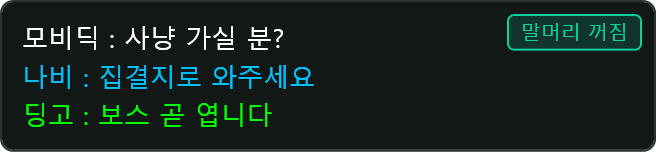
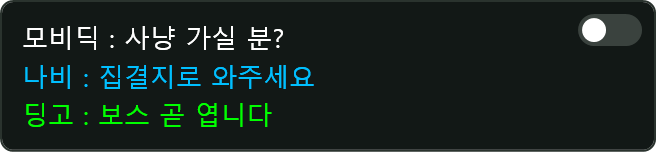
fix: 설정 레이아웃 정리 + 도움말 상태 표시를 실제 토글 그림으로
- 레벨별 색상: 에타 레벨 바로 아래 들여쓴 소분류 행으로 재배치,
  구간 라벨을 색 버튼 왼쪽 한 줄로 정렬해 다른 행의 색 버튼·토글 위치와 맞춤
- 고정된 설정창 본문 폭(566)에 맞게 606px 요소 3곳 축소
  (필드 보스 알림 카드·키워드 입력·아이템 필터 목록) — 오른쪽 짤림 해결
- 도움말 프레임의 '표시 켜짐/꺼짐' 텍스트 배지를 실제 설정과 같은
  토글 스위치 그림으로 교체 — 어떤 토글 상태의 결과인지 바로 대응
- 에타 레벨 예시 [310] → [72] (구간 체계와 일치)

Changed region(s): [[0.7622, 0.0789, 1.0, 0.3421]]

diff --git a/Views/Controls/SettingsView.xaml b/Views/Controls/SettingsView.xaml
@@ -432,18 +432,6 @@
                             <Border Style="{StaticResource SettingsRowStyle}">
                                 <DockPanel>
                                     <StackPanel DockPanel.Dock="Right" Orientation="Horizontal" VerticalAlignment="Center">
-                                        <CheckBox Style="{StaticResource SyncLinkCheckBoxStyle}" IsChecked="{Binding SenderIdColorSync}"/>
-                                        <Button Width="26" Height="14" Margin="0,0,62,0" Background="{Binding SenderIdColor}" IsEnabled="{Binding SenderIdColorEditable}" Command="{Binding ColorPickCommand}" CommandParameter="SenderId" Style="{StaticResource ColorPickerButtonStyle}" ToolTip="동기화를 끄면 지정할 수 있습니다"/>
-                                    </StackPanel>
-                                    <StackPanel Orientation="Horizontal" VerticalAlignment="Center">
-                                        <TextBlock Text="아이디" Style="{StaticResource SettingsRowLabelStyle}" ToolTip="채팅 줄의 보낸 사람 아이디 색상"/>
-                                        <Button Style="{StaticResource HelpButtonStyle}" Tag="chat.id.sender" Click="Help_Click"/>
-                                    </StackPanel>
-                                </DockPanel>
-                            </Border>
-                            <Border Style="{StaticResource SettingsRowStyle}">
-                                <DockPanel>
-                                    <StackPanel DockPanel.Dock="Right" Orientation="Horizontal" VerticalAlignment="Center">
                                         <CheckBox Style="{StaticResource SyncLinkCheckBoxStyle}" IsChecked="{Binding EtaLevelColorSync}"/>
                                         <Button Width="26" Height="14" Margin="0,0,10,0" Background="{Binding EtaLevelColor}" IsEnabled="{Binding EtaLevelColorEditable}" Command="{Binding ColorPickCommand}" CommandParameter="EtaLevel" Style="{StaticResource ColorPickerButtonStyle}" ToolTip="동기화를 끄면 지정할 수 있습니다"/>
                                         <CheckBox IsChecked="{Binding ShowEtaLevel}" Style="{StaticResource ToggleSwitchCheckBoxStyle}"/>
@@ -454,32 +442,35 @@
                                     </StackPanel>
                                 </DockPanel>
                             </Border>
+                            <Border Style="{StaticResource SettingsRowStyle}">
+                                <DockPanel>
+                                    <StackPanel DockPanel.Dock="Right" Orientation="Horizontal" VerticalAlignment="Center">
+                                        <CheckBox Style="{StaticResource SyncLinkCheckBoxStyle}" IsChecked="{Binding SenderIdColorSync}"/>
+                                        <Button Width="26" Height="14" Margin="0,0,62,0" Background="{Binding SenderIdColor}" IsEnabled="{Binding SenderIdColorEditable}" Command="{Binding ColorPickCommand}" CommandParameter="SenderId" Style="{StaticResource ColorPickerButtonStyle}" ToolTip="동기화를 끄면 지정할 수 있습니다"/>
+                                    </StackPanel>
+                                    <StackPanel Orientation="Horizontal" VerticalAlignment="Center">
+                                        <TextBlock Text="아이디" Style="{StaticResource SettingsRowLabelStyle}" ToolTip="채팅 줄의 보낸 사람 아이디 색상"/>
+                                        <Button Style="{StaticResource HelpButtonStyle}" Tag="chat.id.sender" Click="Help_Click"/>
+                                    </StackPanel>
+                                </DockPanel>
+                            </Border>
+                            <!-- 에타 레벨의 소분류: 들여쓴 라벨 + 구간 색 버튼(라벨은 버튼 왼쪽, 한 줄 정렬) -->
                             <Border Style="{StaticResource SettingsRowWideStyle}">
                                 <DockPanel>
                                     <StackPanel DockPanel.Dock="Right" Orientation="Horizontal" VerticalAlignment="Center">
-                                        <StackPanel Margin="6,0,0,0" VerticalAlignment="Center">
-                                            <TextBlock Text="1~20" FontSize="9" Foreground="{DynamicResource OverlaySubtleTextBrush}" HorizontalAlignment="Center" Margin="0,0,0,2"/>
-                                            <Button Width="26" Height="14" Background="{Binding EtaLevelRange1Color}" IsEnabled="{Binding EtaLevelRangeColors}" Command="{Binding ColorPickCommand}" CommandParameter="EtaLevelRange1" Style="{StaticResource ColorPickerButtonStyle}"/>
-                                        </StackPanel>
-                                        <StackPanel Margin="6,0,0,0" VerticalAlignment="Center">
-                                            <TextBlock Text="21~40" FontSize="9" Foreground="{DynamicResource OverlaySubtleTextBrush}" HorizontalAlignment="Center" Margin="0,0,0,2"/>
-                                            <Button Width="26" Height="14" Background="{Binding EtaLevelRange2Color}" IsEnabled="{Binding EtaLevelRangeColors}" Command="{Binding ColorPickCommand}" CommandParameter="EtaLevelRange2" Style="{StaticResource ColorPickerButtonStyle}"/>
-                                        </StackPanel>
-                                        <StackPanel Margin="6,0,0,0" VerticalAlignment="Center">
-                                            <TextBlock Text="41~60" FontSize="9" Foreground="{DynamicResource OverlaySubtleTextBrush}" HorizontalAlignment="Center" Margin="0,0,0,2"/>
-                                            <Button Width="26" Height="14" Background="{Binding EtaLevelRange3Color}" IsEnabled="{Binding EtaLevelRangeColors}" Command="{Binding ColorPickCommand}" CommandParameter="EtaLevelRange3" Style="{StaticResource ColorPickerButtonStyle}"/>
-                                        </StackPanel>
-                                        <StackPanel Margin="6,0,0,0" VerticalAlignment="Center">
-                                            <TextBlock Text="61~80" FontSize="9" Foreground="{DynamicResource OverlaySubtleTextBrush}" HorizontalAlignment="Center" Margin="0,0,0,2"/>
-                                            <Button Width="26" Height="14" Background="{Binding EtaLevelRange4Color}" IsEnabled="{Binding EtaLevelRangeColors}" Command="{Binding ColorPickCommand}" CommandParameter="EtaLevelRange4" Style="{StaticResource ColorPickerButtonStyle}"/>
-                                        </StackPanel>
-                                        <StackPanel Margin="6,0,0,0" VerticalAlignment="Center">
-                                            <TextBlock Text="81~" FontSize="9" Foreground="{DynamicResource OverlaySubtleTextBrush}" HorizontalAlignment="Center" Margin="0,0,0,2"/>
-                                            <Button Width="26" Height="14" Background="{Binding EtaLevelRange5Color}" IsEnabled="{Binding EtaLevelRangeColors}" Command="{Binding ColorPickCommand}" CommandParameter="EtaLevelRange5" Style="{StaticResource ColorPickerButtonStyle}"/>
-                                        </StackPanel>
-                                        <CheckBox IsChecked="{Binding EtaLevelRangeColors}" Style="{StaticResource ToggleSwitchCheckBoxStyle}" Margin="12,0,0,0"/>
+                                        <TextBlock Text="1~20" FontSize="10" Foreground="{DynamicResource OverlaySubtleTextBrush}" VerticalAlignment="Center" Margin="0,0,4,0"/>
+                                        <Button Width="26" Height="14" Margin="0,0,8,0" Background="{Binding EtaLevelRange1Color}" IsEnabled="{Binding EtaLevelRangeColors}" Command="{Binding ColorPickCommand}" CommandParameter="EtaLevelRange1" Style="{StaticResource ColorPickerButtonStyle}"/>
+                                        <TextBlock Text="21~40" FontSize="10" Foreground="{DynamicResource OverlaySubtleTextBrush}" VerticalAlignment="Center" Margin="0,0,4,0"/>
+                                        <Button Width="26" Height="14" Margin="0,0,8,0" Background="{Binding EtaLevelRange2Color}" IsEnabled="{Binding EtaLevelRangeColors}" Command="{Binding ColorPickCommand}" CommandParameter="EtaLevelRange2" Style="{StaticResource ColorPickerButtonStyle}"/>
+                                        <TextBlock Text="41~60" FontSize="10" Foreground="{DynamicResource OverlaySubtleTextBrush}" VerticalAlignment="Center" Margin="0,0,4,0"/>
+                                        <Button Width="26" Height="14" Margin="0,0,8,0" Background="{Binding EtaLevelRange3Color}" IsEnabled="{Binding EtaLevelRangeColors}" Command="{Binding ColorPickCommand}" CommandParameter="EtaLevelRange3" Style="{StaticResource ColorPickerButtonStyle}"/>
+                                        <TextBlock Text="61~80" FontSize="10" Foreground="{DynamicResource OverlaySubtleTextBrush}" VerticalAlignment="Center" Margin="0,0,4,0"/>
+                                        <Button Width="26" Height="14" Margin="0,0,8,0" Background="{Binding EtaLevelRange4Color}" IsEnabled="{Binding EtaLevelRangeColors}" Command="{Binding ColorPickCommand}" CommandParameter="EtaLevelRange4" Style="{StaticResource ColorPickerButtonStyle}"/>
+                                        <TextBlock Text="81~" FontSize="10" Foreground="{DynamicResource OverlaySubtleTextBrush}" VerticalAlignment="Center" Margin="0,0,4,0"/>
+                                        <Button Width="26" Height="14" Margin="0,0,10,0" Background="{Binding EtaLevelRange5Color}" IsEnabled="{Binding EtaLevelRangeColors}" Command="{Binding ColorPickCommand}" CommandParameter="EtaLevelRange5" Style="{StaticResource ColorPickerButtonStyle}"/>
+                                        <CheckBox IsChecked="{Binding EtaLevelRangeColors}" Style="{StaticResource ToggleSwitchCheckBoxStyle}"/>
                                     </StackPanel>
-                                    <StackPanel Orientation="Horizontal" VerticalAlignment="Center">
+                                    <StackPanel Orientation="Horizontal" VerticalAlignment="Center" Margin="14,0,0,0">
                                         <TextBlock Text="레벨별 색상" Style="{StaticResource SettingsRowLabelStyle}" ToolTip="에타 레벨 구간에 따라 [레벨] 색을 다르게 표시"/>
                                         <Button Style="{StaticResource HelpButtonStyle}" Tag="chat.id.eta_range" Click="Help_Click"/>
                                     </StackPanel>
@@ -928,7 +919,7 @@
                                  Style="{StaticResource InputTextBoxStyle}"
                                  AcceptsReturn="True"
                                  TextWrapping="Wrap"
-                                 Width="606"
+                                 Width="566"
                                  HorizontalAlignment="Left"
                                  Height="80"/>
                         <TextBlock Text="@단어1 @단어2 형식 · 입력 즉시 적용됩니다" Style="{StaticResource SettingsRowHintStyle}" Margin="0,4,0,0"/>
@@ -1198,7 +1189,7 @@
                             <Button Content="사용자 정의" Command="{Binding SelectCustomDropFilterCommand}" Width="92" Style="{StaticResource DropFilterButtonStyle}"/>
                         </StackPanel>
 
-                        <Grid Width="606" HorizontalAlignment="Left">
+                        <Grid Width="566" HorizontalAlignment="Left">
                             <Grid.Style>
                                 <Style TargetType="Grid">
                                     <Setter Property="Visibility" Value="Collapsed"/>
@@ -1302,7 +1293,7 @@
                                 <RadioButton Content="필드 보스 알림" IsChecked="True" GroupName="BossTabs" IsHitTestVisible="False" Style="{StaticResource SettingsTabStyle}"/>
                             </StackPanel>
                         </Border>
-                        <ItemsControl ItemsSource="{Binding BossAlarmCards}" Width="606" HorizontalAlignment="Left">
+                        <ItemsControl ItemsSource="{Binding BossAlarmCards}" Width="566" HorizontalAlignment="Left">
                             <ItemsControl.ItemsPanel>
                                 <ItemsPanelTemplate>
                                     <UniformGrid Columns="3"/>

diff --git a/Services/Diagnostics/HelpShotRenderer.cs b/Services/Diagnostics/HelpShotRenderer.cs
@@ -54,17 +54,17 @@ namespace TWChatOverlay.Services
             Save(outDir, "chat_id_sender_sync_off.png", SyncGuideMock(syncOn: false));
 
             // ── 에타 레벨 ──
-            Save(outDir, "chat_id_eta_level_off.png", Panel("표시 꺼짐",
+            Save(outDir, "chat_id_eta_level_off.png", PanelToggle(false,
                 Line(NormalCol, ("모비딕", NormalCol), (" : 사냥 가실 분?", NormalCol))));
-            Save(outDir, "chat_id_eta_level_on.png", Panel("표시 켜짐",
-                Line(NormalCol, ("모비딕", NormalCol), ("[310]", GoldCol), (" : 사냥 가실 분?", NormalCol))));
+            Save(outDir, "chat_id_eta_level_on.png", PanelToggle(true,
+                Line(NormalCol, ("모비딕", NormalCol), ("[72]", GoldCol), (" : 사냥 가실 분?", NormalCol))));
 
             // ── 에타 레벨별 색상 ──
-            Save(outDir, "chat_id_eta_range_off.png", Panel("레벨별 색상 꺼짐 — 한 가지 색",
+            Save(outDir, "chat_id_eta_range_off.png", PanelToggle(false,
                 Line(NormalCol, ("나비", NormalCol), ("[15]", GoldCol), (" : 반가워요", NormalCol)),
                 Line(NormalCol, ("딩고", NormalCol), ("[55]", GoldCol), (" : 사냥 가실 분?", NormalCol)),
                 Line(NormalCol, ("모비딕", NormalCol), ("[92]", GoldCol), (" : 보스 곧 엽니다", NormalCol))));
-            Save(outDir, "chat_id_eta_range_on.png", Panel("레벨별 색상 켜짐 — 구간별 색",
+            Save(outDir, "chat_id_eta_range_on.png", PanelToggle(true,
                 Line(NormalCol, ("나비", NormalCol), ("[15]", Range1Col), (" : 반가워요", NormalCol)),
                 Line(NormalCol, ("호밀", NormalCol), ("[33]", Range2Col), (" : 물약 팝니다", NormalCol)),
                 Line(NormalCol, ("딩고", NormalCol), ("[55]", Range3Col), (" : 사냥 가실 분?", NormalCol)),
@@ -72,29 +72,30 @@ namespace TWChatOverlay.Services
                 Line(NormalCol, ("모비딕", NormalCol), ("[92]", Range5Col), (" : 보스 곧 엽니다", NormalCol))));
 
             // ── 캐릭터 ──
-            Save(outDir, "chat_id_character_off.png", Panel("표시 꺼짐",
-                Line(NormalCol, ("모비딕", NormalCol), ("[310]", GoldCol), (" : 사냥 가실 분?", NormalCol))));
-            Save(outDir, "chat_id_character_on.png", Panel("표시 켜짐",
-                Line(NormalCol, ("모비딕", NormalCol), ("[310]", GoldCol), ("[루시안]", SkyCol), (" : 사냥 가실 분?", NormalCol))));
+            Save(outDir, "chat_id_character_off.png", PanelToggle(false,
+                Line(NormalCol, ("모비딕", NormalCol), ("[72]", GoldCol), (" : 사냥 가실 분?", NormalCol))));
+            Save(outDir, "chat_id_character_on.png", PanelToggle(true,
+                Line(NormalCol, ("모비딕", NormalCol), ("[72]", GoldCol), ("[루시안]", SkyCol), (" : 사냥 가실 분?", NormalCol))));
 
             // ── 아이디 태그 ──
-            Save(outDir, "chat_id_tag_off.png", Panel("표시 꺼짐",
+            Save(outDir, "chat_id_tag_off.png", PanelToggle(false,
                 Line(NormalCol, ("모비딕", NormalCol), (" : 물약 팝니다", NormalCol))));
-            Save(outDir, "chat_id_tag_on.png", Panel("표시 켜짐  (idtag.txt: 모비딕=상인)",
-                Line(NormalCol, ("모비딕", NormalCol), ("[상인]", SkyCol), (" : 물약 팝니다", NormalCol))));
+            Save(outDir, "chat_id_tag_on.png", PanelToggle(true,
+                Line(NormalCol, ("모비딕", NormalCol), ("[상인]", SkyCol), (" : 물약 팝니다", NormalCol)),
+                DimLine("(idtag.txt: 모비딕=상인)")));
 
             // ── 클럽 보스 ──
-            Save(outDir, "chat_id_club_boss_on.png", Panel("표시 켜짐",
+            Save(outDir, "chat_id_club_boss_on.png", PanelToggle(true,
                 Line(ClubCol, ("[클럽] 딩고 : 보스 갑니다", ClubCol)),
                 Line(SystemCol, ("클럽 공지 : '[클럽 보스] 그람존' 에 '딩고' 님이 참가하셨습니다.", SystemCol))));
-            Save(outDir, "chat_id_club_boss_off.png", Panel("표시 꺼짐 — 공지 숨김",
+            Save(outDir, "chat_id_club_boss_off.png", PanelToggle(false,
                 Line(ClubCol, ("[클럽] 딩고 : 보스 갑니다", ClubCol)),
                 DimLine("(클럽 보스 공지는 표시되지 않음)")));
 
             // ── 타임 스탬프 ──
-            Save(outDir, "chat_id_timestamp_off.png", Panel("표시 꺼짐",
+            Save(outDir, "chat_id_timestamp_off.png", PanelToggle(false,
                 Line(NormalCol, ("모비딕 : 안녕하세요", NormalCol))));
-            Save(outDir, "chat_id_timestamp_on.png", Panel("표시 켜짐",
+            Save(outDir, "chat_id_timestamp_on.png", PanelToggle(true,
                 Line(NormalCol, ("[7시 15분 18초] ", SubText), ("모비딕 : 안녕하세요", NormalCol))));
 
             // ── 폰트 크기 ──
@@ -104,11 +105,11 @@ namespace TWChatOverlay.Services
                 LineSized(17, ("모비딕 : 폰트 크기를 바꿀 수 있습니다", NormalCol))));
 
             // ── 종류 말머리 ──
-            Save(outDir, "chat_category_prefix_off.png", Panel("말머리 꺼짐",
+            Save(outDir, "chat_category_prefix_off.png", PanelToggle(false,
                 Line(NormalCol, ("모비딕 : 사냥 가실 분?", NormalCol)),
                 Line(TeamCol, ("나비 : 집결지로 와주세요", TeamCol)),
                 Line(ClubCol, ("딩고 : 보스 곧 엽니다", ClubCol))));
-            Save(outDir, "chat_category_prefix_on.png", Panel("말머리 켜짐",
+            Save(outDir, "chat_category_prefix_on.png", PanelToggle(true,
                 Line(NormalCol, ("[일반] ", NormalCol), ("모비딕 : 사냥 가실 분?", NormalCol)),
                 Line(TeamCol, ("[팀] ", TeamCol), ("나비 : 집결지로 와주세요", TeamCol)),
                 Line(ClubCol, ("[클럽] ", ClubCol), ("딩고 : 보스 곧 엽니다", ClubCol))));
@@ -122,6 +123,13 @@ namespace TWChatOverlay.Services
 
         /// <summary>어두운 채팅 판 + 우상단 상태 배지.</summary>
         private static FrameworkElement Panel(string badge, params UIElement[] lines)
+            => PanelCore(Badge(badge), lines);
+
+        /// <summary>어두운 채팅 판 + 우상단에 실제 설정과 같은 모양의 토글 스위치 (켜짐/꺼짐 상태 대응용).</summary>
+        private static FrameworkElement PanelToggle(bool on, params UIElement[] lines)
+            => PanelCore(ToggleBadge(on), lines);
+
+        private static FrameworkElement PanelCore(UIElement badge, params UIElement[] lines)
         {
             var stack = new StackPanel { Margin = new Thickness(10, 8, 10, 8) };
             foreach (var line in lines)
@@ -129,7 +137,7 @@ namespace TWChatOverlay.Services
 
             var grid = new Grid();
             grid.Children.Add(stack);
-            grid.Children.Add(Badge(badge));
+            grid.Children.Add(badge);
 
             return new Border
             {
@@ -139,6 +147,36 @@ namespace TWChatOverlay.Services
                 BorderThickness = new Thickness(1),
                 CornerRadius = new CornerRadius(6),
                 Child = grid,
+            };
+        }
+
+        /// <summary>설정 화면의 토글 스위치와 같은 모양: 켜짐=민트 트랙+오른쪽 흰 손잡이, 꺼짐=회색 트랙+왼쪽 손잡이.</summary>
+        private static UIElement ToggleBadge(bool on)
+        {
+            var knob = new Border
+            {
+                Width = 12,
+                Height = 12,
+                CornerRadius = new CornerRadius(6),
+                Background = new SolidColorBrush(Colors.White),
+                HorizontalAlignment = on ? HorizontalAlignment.Right : HorizontalAlignment.Left,
+                VerticalAlignment = VerticalAlignment.Center,
+                Margin = new Thickness(2, 0, 2, 0),
+            };
+            var track = new Border
+            {
+                Width = 32,
+                Height = 16,
+                CornerRadius = new CornerRadius(8),
+                Background = new SolidColorBrush(on ? Mint : Color.FromRgb(0x3A, 0x42, 0x3E)),
+                Child = knob,
+            };
+            return new Border
+            {
+                HorizontalAlignment = HorizontalAlignment.Right,
+                VerticalAlignment = VerticalAlignment.Top,
+                Margin = new Thickness(0, 6, 6, 0),
+                Child = track,
             };
         }
 
